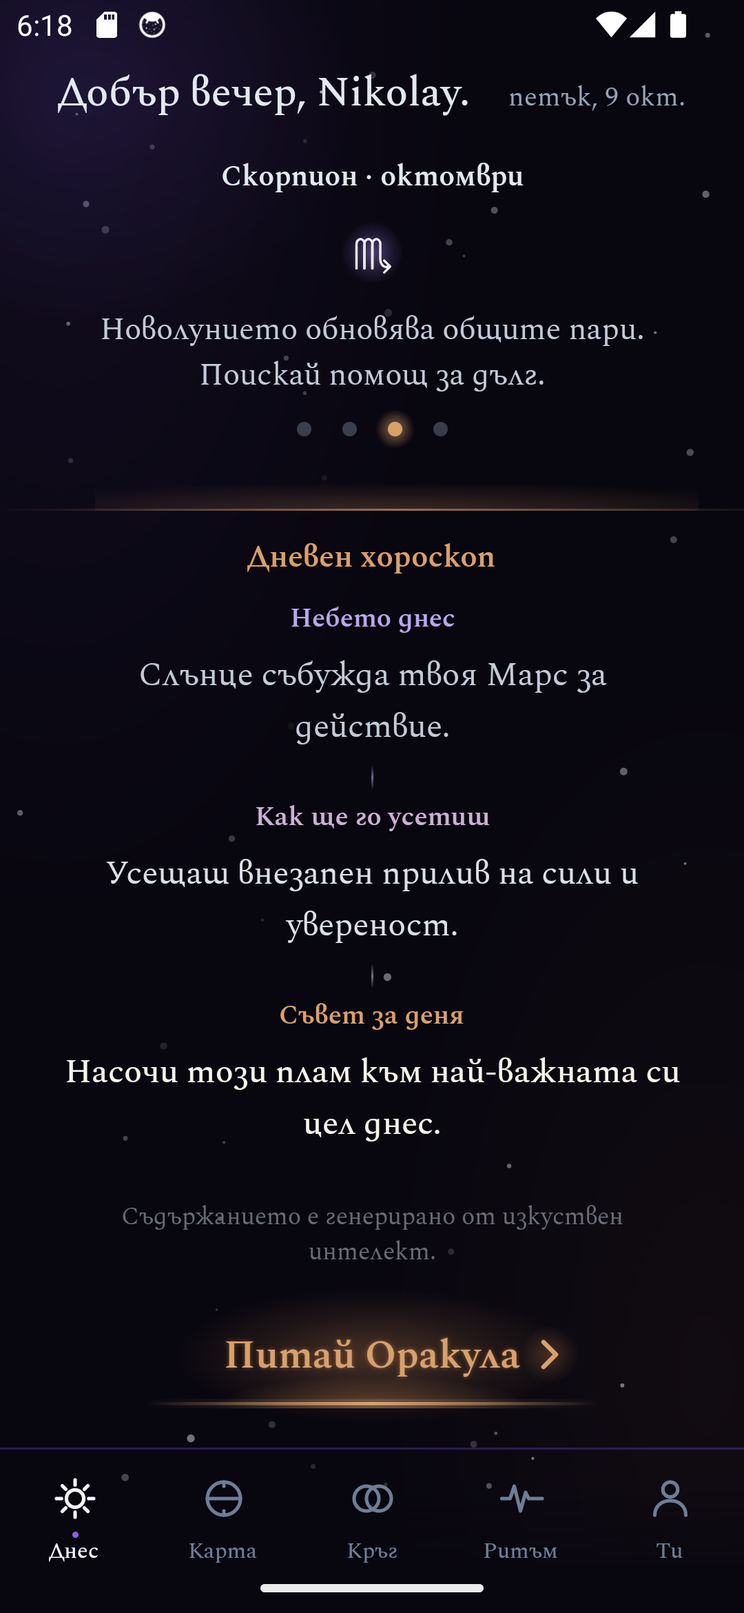
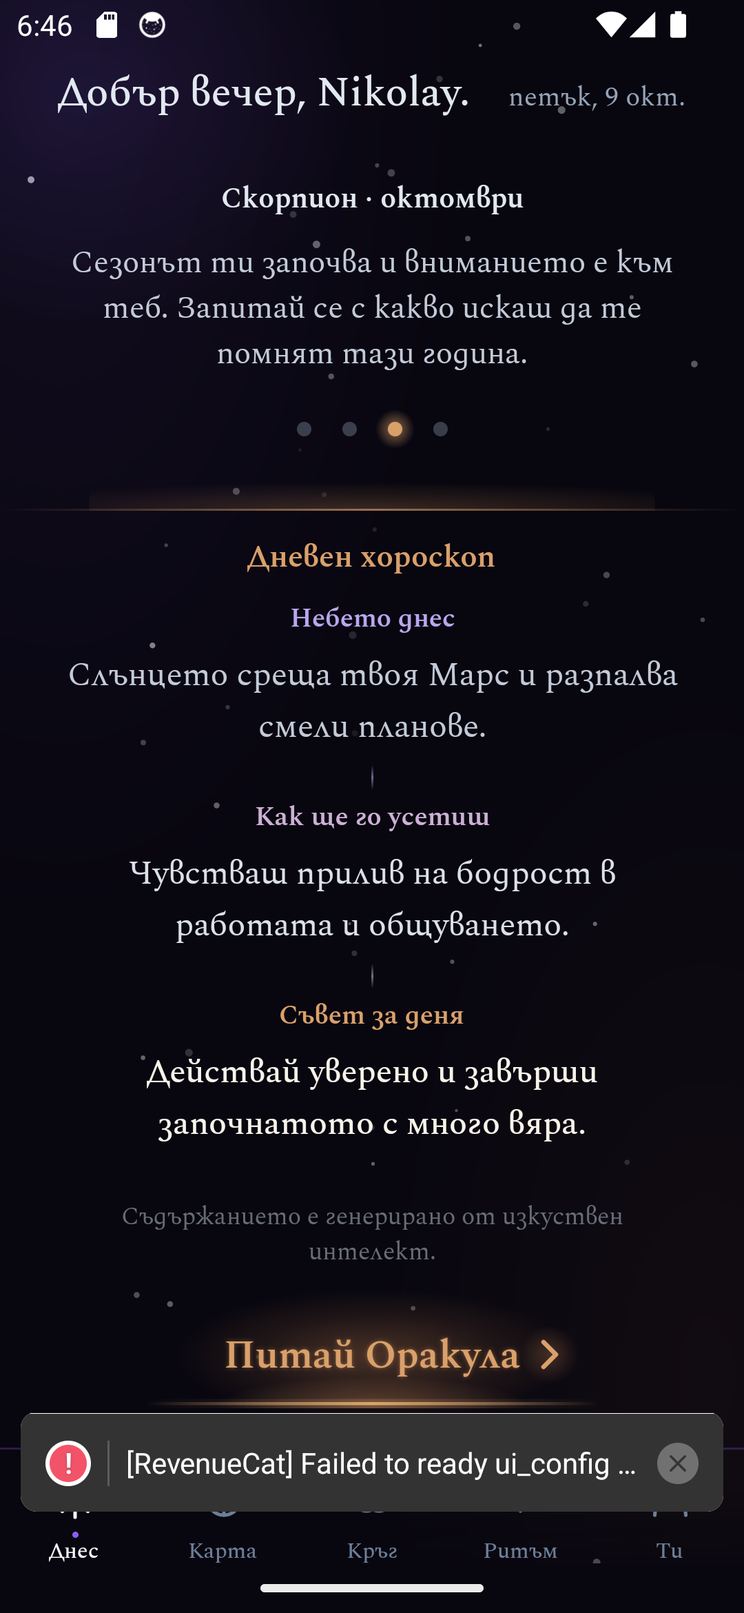
feat(mobile): Днес v2 review round: bronze text actions, fuller horoscope, 3-line month
- «Повече» and «Събери» are bronze with a thin bronze line that fades at both ends (same
  family as «Питай Оракула») and keep the press glow; «Събрано» stays faint. App-wide rule
  for tappable text added to the stellaeum-design skill and the design brief.
- Month page allows three lines; the sign glyph takes whatever room is left and is dropped
  in the shortest band. Moon sizes to the band so the link's line is never clipped.
- Horoscope cache key bumped to v2 so a cached old-shape reading is not shown.
- Screenshots at 384x832 and 360x780 with the regenerated horoscope; new 12-sign sample.

diff --git a/apps/mobile/components/dnes/SummaryPager.tsx b/apps/mobile/components/dnes/SummaryPager.tsx
@@ -126,17 +126,19 @@ const SignsView = memo(function SignsView({ p, m }: { p: SignsPage; m: DnesMetri
 
 const MoonView = memo(function MoonView({ p, m, active }: { p: MoonPage; m: DnesMetrics; active: boolean }) {
   const k = kOf(m)
+  // The moon takes what is left of the band after the title, two text rows and the link's line.
+  const moon = Math.min(72, m.swipeH - 77)
   return (
     <>
       <Title>{DNES_COPY.pageMoon}</Title>
       {/* MoonGlyph paints a halo larger than `size`; a fixed-height box keeps that overflow
           out of the layout so the page height stays what the budget says. Its breathing
           animation only runs while this page is the one on screen. */}
-      <View style={{ marginTop: Math.round(8 * k), height: Math.round(72 * k), alignItems: 'center', justifyContent: 'center' }}>
+      <View style={{ marginTop: Math.round(8 * k), height: moon, alignItems: 'center', justifyContent: 'center' }}>
         <MoonGlyph
           illumination={p.illumination}
           isWaxing={p.isWaxing}
-          size={Math.round(72 * k)}
+          size={moon}
           haloRatio={1.25}
           animated={active}
         />
@@ -159,9 +161,9 @@ const MoonView = memo(function MoonView({ p, m, active }: { p: MoonPage; m: Dnes
           label={DNES_COPY.moreLink}
           accessibilityLabel={DNES_COPY.moreLink}
           onPress={p.onMore}
-          baseColor={color.muted}
-          litColor={color.starlight}
-          haloRgb={[203, 210, 222]}
+          baseColor={color.bronzeText}
+          litColor={color.bronzeLit}
+          haloRgb={[224, 150, 90]}
           hitSlop={{ top: 13, bottom: 13, left: 16, right: 16 }}
           textStyle={{ fontFamily: font.body, fontSize: 13, lineHeight: 18 }}
           underline
@@ -173,17 +175,23 @@ const MoonView = memo(function MoonView({ p, m, active }: { p: MoonPage; m: Dnes
 
 const MonthView = memo(function MonthView({ p, m }: { p: MonthPage; m: DnesMetrics }) {
   const k = kOf(m)
+  // The note can run to three lines (66px). The glyph takes whatever room is left in the band,
+  // and is left out when there is not enough: title 20 + gaps + text 66 + a little air.
+  const room = m.swipeH - 20 - 66 - 18
+  const halo = Math.min(Math.round(56 * k), room)
   return (
     <>
       <Title>{p.title}</Title>
-      <View style={{ marginTop: Math.round(6 * k) }}>
-        <SignGlyph sign={p.sign} halo={Math.round(56 * k)} glyph={Math.round(30 * k)} strong idSuffix="month" />
-      </View>
-      {/* Two lines at most by the server's fit check, so it is never cut. */}
+      {halo >= 30 && (
+        <View style={{ marginTop: 6 }}>
+          <SignGlyph sign={p.sign} halo={halo} glyph={Math.round(halo * 0.55)} strong idSuffix="month" />
+        </View>
+      )}
+      {/* Three lines at most by the server's fit check, so it is never cut. */}
       <Text
         maxFontSizeMultiplier={DNES_MAX_FONT_SCALE}
         style={{
-          marginTop: Math.round(6 * k),
+          marginTop: halo >= 30 ? 6 : 10,
           fontFamily: font.body,
           fontSize: 15,
           lineHeight: 22,
@@ -233,9 +241,9 @@ const CrystalView = memo(function CrystalView({ p, m }: { p: CrystalPage; m: Dne
           accessibilityLabel={p.collected ? DNES_COPY.collected : DNES_COPY.collect}
           onPress={p.onCollect}
           disabled={p.collected || p.pending}
-          baseColor={p.collected ? color.faint : color.glyphLilac}
-          litColor={color.glyphLilacHi}
-          haloRgb={[167, 139, 250]}
+          baseColor={p.collected ? color.faint : color.bronzeText}
+          litColor={color.bronzeLit}
+          haloRgb={[224, 150, 90]}
           hitSlop={{ top: 12, bottom: 12, left: 20, right: 20 }}
           textStyle={{ fontFamily: font.display, fontSize: 15, lineHeight: 20, textAlign: 'center' }}
           underline={!p.collected}

diff --git a/apps/mobile/components/dnes/LitPressable.tsx b/apps/mobile/components/dnes/LitPressable.tsx
@@ -7,13 +7,14 @@ import Animated, {
   useSharedValue,
   withTiming,
 } from 'react-native-reanimated'
-import Svg, { Defs, Ellipse, RadialGradient, Stop } from 'react-native-svg'
+import Svg, { Defs, Ellipse, LinearGradient, RadialGradient, Rect, Stop } from 'react-native-svg'
 
 import { hapticSelect } from '@/lib/haptics'
 import { DNES_MAX_FONT_SCALE } from '@/lib/dnes/layout'
 
 /**
- * A text button that LIGHTS UP while pressed: a brighter colour plus a soft halo behind the
+ * A text action, in bronze with a thin line under it (the app-wide rule for tappable text), that
+ * LIGHTS UP while pressed: a brighter colour plus a soft halo behind the
  * letters, fading back quickly on release (like «Питай Оракула»). Reduced motion: the change
  * is instant, no fade. R7: two dimensions of difference (colour and glow). The halo is an
  * SVG ellipse, so it looks the same on Android and iOS. On web this becomes a hover style.
@@ -118,11 +119,19 @@ export const LitPressable = memo(function LitPressable({
         >
           {label}
         </Animated.Text>
-        {underline && !disabled && (
-          <View
-            pointerEvents="none"
-            style={{ height: 1, marginTop: 2, backgroundColor: 'rgba(196,176,252,0.55)', borderRadius: 1 }}
-          />
+        {underline && !disabled && box && (
+          // Thin bronze line under the word that fades out to both ends: the same family as the
+          // line under «Питай Оракула». Text actions are bronze, app-wide.
+          <Svg width={box.w} height={2} style={{ marginTop: 1 }} pointerEvents="none">
+            <Defs>
+              <LinearGradient id={`${id}-line`} x1="0%" y1="0%" x2="100%" y2="0%">
+                <Stop offset="0%" stopColor="rgb(217,160,106)" stopOpacity={0} />
+                <Stop offset="50%" stopColor="rgb(224,168,111)" stopOpacity={0.9} />
+                <Stop offset="100%" stopColor="rgb(217,160,106)" stopOpacity={0} />
+              </LinearGradient>
+            </Defs>
+            <Rect x={0} y={0.5} width={box.w} height={1} fill={`url(#${id}-line)`} />
+          </Svg>
         )}
       </View>
     </Pressable>

diff --git a/apps/mobile/hooks/useDailyHoroscope.ts b/apps/mobile/hooks/useDailyHoroscope.ts
@@ -38,7 +38,9 @@ function getYesterdayString(): string {
 export function getCacheKey(chartId: string, date: string): string {
   // REVISIT-50 harmonization — unprefixed stellaeum.* convention. No
   // migration needed: a cache miss on the old key just refetches.
-  return `stellaeum.horoscope.daily.${chartId}.${date}.v1`
+  // v2: the Днес v2 horoscope has a different shape (3 short parts). A new key means a cached
+  // old-format reading is not served from the device once the server writes the new one.
+  return `stellaeum.horoscope.daily.${chartId}.${date}.v2`
 }
 
 /**

diff --git a/.planning/design/dnes/sign-month-sample-2026-11.md b/.planning/design/dnes/sign-month-sample-2026-11.md
@@ -1,14 +1,14 @@
 | Screen title | Text | Chars | Tries | Sky facts given |
 |---|---|---|---|---|
-| Овен · ноември | Новолунието обновява общите пари. Поискай помощ за дълг. | 56 | 1 | Main sky event for this sign this month: a new moon, a fresh start. Say it in plain Bulgarian as: новолуние. It touches this area of the reader's life: shared money, trust and deep change. This sign's character: direct, quick, impatient. Let the suggestion fit it. Base the suggestion on this idea (reword it in your own plain words and make it fit this sign): ask for help with something heavy. |
-| Телец · ноември | Идва новолуние за връзките ти. Кажи на партньора какво очакваш. | 63 | 1 | Main sky event for this sign this month: a new moon, a fresh start. Say it in plain Bulgarian as: новолуние. It touches this area of the reader's life: partners and close one-to-one bonds. This sign's character: steady, practical, loves comfort. Let the suggestion fit it. Base the suggestion on this idea (reword it in your own plain words and make it fit this sign): tell a close person what you expect. |
-| Близнаци · ноември | Пълнолунието е в теб. Изречи на глас новата си цел. | 51 | 1 | Main sky event for this sign this month: a full moon, when something comes to a head. Say it in plain Bulgarian as: пълнолуние. It touches this area of the reader's life: yourself and a fresh start. This sign's character: curious, talkative, restless. Let the suggestion fit it. Base the suggestion on this idea (reword it in your own plain words and make it fit this sign): say what you want for yourself out loud. |
-| Рак · ноември | Чака те новолуние за радост. Покажи своя рисунка у дома. | 56 | 1 | Main sky event for this sign this month: a new moon, a fresh start. Say it in plain Bulgarian as: новолуние. It touches this area of the reader's life: joy, creativity and romance. This sign's character: protective, emotional, home-loving. Let the suggestion fit it. Base the suggestion on this idea (reword it in your own plain words and make it fit this sign): share a small creative piece with someone. |
-| Лъв · ноември | Новолуние обновява дома ти. Чуй стар роднина. | 45 | 1 | Main sky event for this sign this month: a new moon, a fresh start. Say it in plain Bulgarian as: новолуние. It touches this area of the reader's life: home and family. This sign's character: proud, generous, loves to be seen. Let the suggestion fit it. Base the suggestion on this idea (reword it in your own plain words and make it fit this sign): call a relative you have not spoken to. |
-| Дева · ноември | Това пълнолуние носи връх в работата. Обнови резюмето си. | 57 | 1 | Main sky event for this sign this month: a full moon, when something comes to a head. Say it in plain Bulgarian as: пълнолуние. It touches this area of the reader's life: career and public life. This sign's character: careful, helpful, detail-minded. Let the suggestion fit it. Base the suggestion on this idea (reword it in your own plain words and make it fit this sign): update your CV or portfolio. |
-| Везни · ноември | Имаш новолуние в парите. Продай стара вещ. | 42 | 2 | Main sky event for this sign this month: a new moon, a fresh start. Say it in plain Bulgarian as: новолуние. It touches this area of the reader's life: money and what you value. This sign's character: fair, peace-seeking, likes harmony. Let the suggestion fit it. Base the suggestion on this idea (reword it in your own plain words and make it fit this sign): sell or give away something unused. |
-| Скорпион · ноември | Слънцето е в твоя знак. Смени видим навик. | 42 | 1 | Main sky event for this sign this month: the sun is in the reader's own sign for part of the month, their personal high season. Say it in plain Bulgarian as: твоят сезон, слънцето е в твоя знак. It touches this area of the reader's life: yourself and a fresh start. This sign's character: intense, private, all-or-nothing. Let the suggestion fit it. Base the suggestion on this idea (reword it in your own plain words and make it fit this sign): change one habit that shows. |
-| Стрелец · ноември | Твоят сезон е тук. Заяви на глас какво искаш. | 45 | 2 | Main sky event for this sign this month: the sun is in the reader's own sign for part of the month, their personal high season. Say it in plain Bulgarian as: твоят сезон, слънцето е в твоя знак. It touches this area of the reader's life: yourself and a fresh start. This sign's character: restless, honest, loves freedom. Let the suggestion fit it. Base the suggestion on this idea (reword it in your own plain words and make it fit this sign): say what you want for yourself out loud. |
-| Козирог · ноември | Предстои новолуние в плановете ти. Запиши една цел за догодина. | 63 | 1 | Main sky event for this sign this month: a new moon, a fresh start. Say it in plain Bulgarian as: новолуние. It touches this area of the reader's life: friends, groups and long-term hopes. This sign's character: disciplined, ambitious, patient. Let the suggestion fit it. Base the suggestion on this idea (reword it in your own plain words and make it fit this sign): write down one goal for next year. |
-| Водолей · ноември | Започва новолуние в работата. Предай завършен проект. | 53 | 1 | Main sky event for this sign this month: a new moon, a fresh start. Say it in plain Bulgarian as: новолуние. It touches this area of the reader's life: career and public life. This sign's character: independent, original, a little detached. Let the suggestion fit it. Base the suggestion on this idea (reword it in your own plain words and make it fit this sign): show your boss one finished result. |
-| Риби · ноември | Пълнолуние разклаща дома ти. Поправи счупеното вкъщи. | 53 | 1 | Main sky event for this sign this month: a full moon, when something comes to a head. Say it in plain Bulgarian as: пълнолуние. It touches this area of the reader's life: home and family. This sign's character: dreamy, empathic, easily absorbed. Let the suggestion fit it. Base the suggestion on this idea (reword it in your own plain words and make it fit this sign): fix one thing at home that annoys you. |
+| Овен · ноември | Новолунието носи дълбока промяна. Забележи кое вече е готово за нов път. | 72 | 2 | Main sky event for this sign this month: a new moon, a fresh start. Say it in plain Bulgarian as: новолунието в общите финанси и дълбоките промени. The area of life it touches: shared finances and deep change. This sign's character: direct, quick, impatient. Let the tone fit it. Sentence 2 is a gentle invitation that fits ANYONE of this sign, based on this (reword it in your own plain words): look at what is ready to change. |
+| Телец · ноември | Новолунието във връзките носи ново начало. Помисли какво даваш и какво получаваш в замяна. | 90 | 1 | Main sky event for this sign this month: a new moon, a fresh start. Say it in plain Bulgarian as: новолунието във връзките. The area of life it touches: close bonds. This sign's character: steady, practical, loves comfort. Let the tone fit it. Sentence 2 is a gentle invitation that fits ANYONE of this sign, based on this (reword it in your own plain words): notice what you give and what you receive. |
+| Близнаци · ноември | Пълнолунието е в твоя знак. Избери коя своя черта искаш да покажеш по-ясно. | 75 | 1 | Main sky event for this sign this month: a full moon, when something comes to a head. Say it in plain Bulgarian as: пълнолунието е в твоя знак. The area of life it touches: yourself. This sign's character: curious, talkative, restless. Let the tone fit it. Sentence 2 is a gentle invitation that fits ANYONE of this sign, based on this (reword it in your own plain words): choose one quality you want to show more. |
+| Рак · ноември | Новолунието в радостта и творчеството носи искра. Позволи си да създаваш само за свое удоволствие. | 98 | 1 | Main sky event for this sign this month: a new moon, a fresh start. Say it in plain Bulgarian as: новолунието в радостта и творчеството. The area of life it touches: joy and creativity. This sign's character: protective, emotional, home-loving. Let the tone fit it. Sentence 2 is a gentle invitation that fits ANYONE of this sign, based on this (reword it in your own plain words): notice what you make just for yourself. |
+| Лъв · ноември | Новолунието е у дома. Оцени какво ти носи истински уют. | 55 | 2 | Main sky event for this sign this month: a new moon, a fresh start. Say it in plain Bulgarian as: новолунието у дома и в семейството. The area of life it touches: home and family. This sign's character: proud, generous, loves to be seen. Let the tone fit it. Sentence 2 is a gentle invitation that fits ANYONE of this sign, based on this (reword it in your own plain words): notice what makes a place feel like home. |
+| Дева · ноември | Пълнолунието осветява житейските ти цели. Остави силите си само за истински важното. | 84 | 1 | Main sky event for this sign this month: a full moon, when something comes to a head. Say it in plain Bulgarian as: пълнолунието в житейските цели и признанието. The area of life it touches: life goals and recognition. This sign's character: careful, helpful, detail-minded. Let the tone fit it. Sentence 2 is a gentle invitation that fits ANYONE of this sign, based on this (reword it in your own plain words): choose what deserves your effort. |
+| Везни · ноември | Новолунието е в личните ти финанси и ценностите. Виж къде отива енергията ти в ежедневието. | 91 | 1 | Main sky event for this sign this month: a new moon, a fresh start. Say it in plain Bulgarian as: новолунието в личните финанси и ценностите. The area of life it touches: personal finances and values. This sign's character: fair, peace-seeking, likes harmony. Let the tone fit it. Sentence 2 is a gentle invitation that fits ANYONE of this sign, based on this (reword it in your own plain words): notice where your energy actually goes. |
+| Скорпион · ноември | Сезонът ти започва и погледите са тук. Открий с какво искаш да те помнят. | 73 | 2 | Main sky event for this sign this month: the sun is in the reader's own sign for part of the month, their personal high season. Say it in plain Bulgarian as: сезонът ти започва (или е в разгара си), вниманието е към теб. The area of life it touches: yourself. This sign's character: intense, private, all-or-nothing. Let the tone fit it. Sentence 2 is a gentle invitation that fits ANYONE of this sign, based on this (reword it in your own plain words): notice what you want to be known for. |
+| Стрелец · ноември | Сезонът ти започва и светлината е върху теб. Покажи смело онази своя черта, която обичаш най-много. | 99 | 1 | Main sky event for this sign this month: the sun is in the reader's own sign for part of the month, their personal high season. Say it in plain Bulgarian as: сезонът ти започва (или е в разгара си), вниманието е към теб. The area of life it touches: yourself. This sign's character: restless, honest, loves freedom. Let the tone fit it. Sentence 2 is a gentle invitation that fits ANYONE of this sign, based on this (reword it in your own plain words): choose one quality you want to show more. |
+| Козирог · ноември | Идва новолунието в приятелствата и мечтите. Сподели свое тихо желание с близък човек. | 85 | 1 | Main sky event for this sign this month: a new moon, a fresh start. Say it in plain Bulgarian as: новолунието в приятелствата и мечтите. The area of life it touches: friendships and hopes. This sign's character: disciplined, ambitious, patient. Let the tone fit it. Sentence 2 is a gentle invitation that fits ANYONE of this sign, based on this (reword it in your own plain words): share a wish with someone you trust. |
+| Водолей · ноември | Идва новолунието в житейските цели. Запитай се с какво искаш да те помнят. | 74 | 1 | Main sky event for this sign this month: a new moon, a fresh start. Say it in plain Bulgarian as: новолунието в житейските цели и признанието. The area of life it touches: life goals and recognition. This sign's character: independent, original, a little detached. Let the tone fit it. Sentence 2 is a gentle invitation that fits ANYONE of this sign, based on this (reword it in your own plain words): notice what you want to be remembered for. |
+| Риби · ноември | Пълнолунието е у дома. Направи си кът за отдих. | 47 | 2 | Main sky event for this sign this month: a full moon, when something comes to a head. Say it in plain Bulgarian as: пълнолунието у дома и в семейството. The area of life it touches: home and family. This sign's character: dreamy, empathic, easily absorbed. Let the tone fit it. Sentence 2 is a gentle invitation that fits ANYONE of this sign, based on this (reword it in your own plain words): make room for rest in your space. |

diff --git a/.planning/design/DESIGN-BRIEF.md b/.planning/design/DESIGN-BRIEF.md
@@ -65,7 +65,7 @@ Each rule: **rule — source.** "(drift)" marks where shipped code departs from 
 | text / muted / faint | `#e2e8f0` / `#94a3b8` / `#6d7e97` | body / secondary / tertiary (faint ≥ 4.5:1) | `tokens.ts`, `DESIGN-RESEARCH` §D |
 | rose | `#fb7185` | errors only | `birth-data-edit-v1` |
 
-Rules: **R4** — 1–2 accent roles per screen, one temperature (warm *or* cool) leading; violet always structural. · **Temperatures:** warm = Днес, Оракул, Ти, Кръг, Кристал, Дневник; cool = Карта, Guide; both (boundary, staged) = Ритъм; neutral = Настройки, Вход. — `_source-v4`. · **Bronze is never a container** — no fill, border, pill or rounded rect; the lit effect is a radial glow + text-shadow + one breathing ember. — Reference §5. · **Navbar is temperature-neutral**: violet horizon hairline, violet point for "you are here", never bronze. — `_source-v4`. · **No pure white, no neon, no rainbow, no pastel; no light mode.** — `DESIGN-RESEARCH` §A.1, §E. · Near-black floor is darker than the halation recommendation; lifting it is *not ruled* (deferred). — `DESIGN-RESEARCH` §C.4, §E.1.
+Rules: **R4** — 1–2 accent roles per screen, one temperature (warm *or* cool) leading; violet always structural. · **Temperatures:** warm = Днес, Оракул, Ти, Кръг, Кристал, Дневник; cool = Карта, Guide; both (boundary, staged) = Ритъм; neutral = Настройки, Вход. — `_source-v4`. · **Text actions are bronze (founder rule 2026-10-09):** tappable text («Повече», «Събери», «Питай Оракула», inline links) is `bronzeText` with a thin bronze line under it fading out at both ends, plus a press glow (word to `bronzeLit`, soft SVG halo, quick fade; reduced motion = instant); done/disabled is `faint` with no line. Still never a container, pill or chevron; web = hover. · **Bronze is never a container** — no fill, border, pill or rounded rect; the lit effect is a radial glow + text-shadow + one breathing ember. — Reference §5. · **Navbar is temperature-neutral**: violet horizon hairline, violet point for "you are here", never bronze. — `_source-v4`. · **No pure white, no neon, no rainbow, no pastel; no light mode.** — `DESIGN-RESEARCH` §A.1, §E. · Near-black floor is darker than the halation recommendation; lifting it is *not ruled* (deferred). — `DESIGN-RESEARCH` §C.4, §E.1.
 
 ## 2.3 Spacing & rhythm
 

diff --git a/.claude/skills/stellaeum-design/SKILL.md b/.claude/skills/stellaeum-design/SKILL.md
@@ -31,9 +31,11 @@ Materials: near-black glass, etched metal, a bronze rim, small lit stones, fine 
 - Check the **longest real Bulgarian string** for every slot (e.g. «Изгряващ полумесец» 19, «Слънце · Луна · Асцендент» 25, list subtitles ≈ 37) before choosing a layout. **R6.**
 
 **Colour** (tokens only).
-- base `#08060f` the room · surface1/2 tonal elevation, **no borders** · violet = structural ground, never a second accent · **bronze = the Oracle speaking, and fittings; never a container, never a label colour** · cool steel-blue only where the sky is read (Карта, Guide) · starlight for chrome · text/muted/faint (faint ≥ 4.5:1, lowest allowed text colour) · rose for errors only.
+- base `#08060f` the room · surface1/2 tonal elevation, **no borders** · violet = structural ground, never a second accent · **bronze = the Oracle speaking, fittings, and TAPPABLE TEXT; never a container, never a label colour** · cool steel-blue only where the sky is read (Карта, Guide) · starlight for chrome · text/muted/faint (faint ≥ 4.5:1, lowest allowed text colour) · rose for errors only.
 - **R4:** 1–2 accent roles per screen, one temperature leading. Warm: Днес, Оракул, Ти, Кръг, Кристал, Дневник. Cool: Карта, Guide. Navbar is temperature-neutral (violet hairline, violet point; never bronze).
 - No pure white, no neon, no rainbow, no pastel, no light mode.
+
+**Text actions (founder rule, 2026-10-09, app-wide).** Any tappable *text* that is not a button-with-a-container (e.g. «Повече», «Събери», «Питай Оракула», inline links) is set in `bronzeText` with a **thin bronze line under it that fades out to both ends**, the same family as the line under «Питай Оракула». It keeps a **press glow**: while pressed the word goes `bronzeLit` and a soft halo (SVG radial gradient, not stacked text layers) fades in, then back out quickly on release; reduced motion makes it instant. Never a pill, box or chevron. A disabled/done state (e.g. «Събрано») is `faint`, no line, no glow. On web this becomes a hover style. Reference implementation: `apps/mobile/components/dnes/LitPressable.tsx`. (This widens bronze from "the Oracle speaking" to "the Oracle speaking and the words you can tap"; it is not a label colour.)
 
 **Light replaces boxes.** Emphasis is a glow with a transparent edge. Elevation is tonal, not shadow.
 
